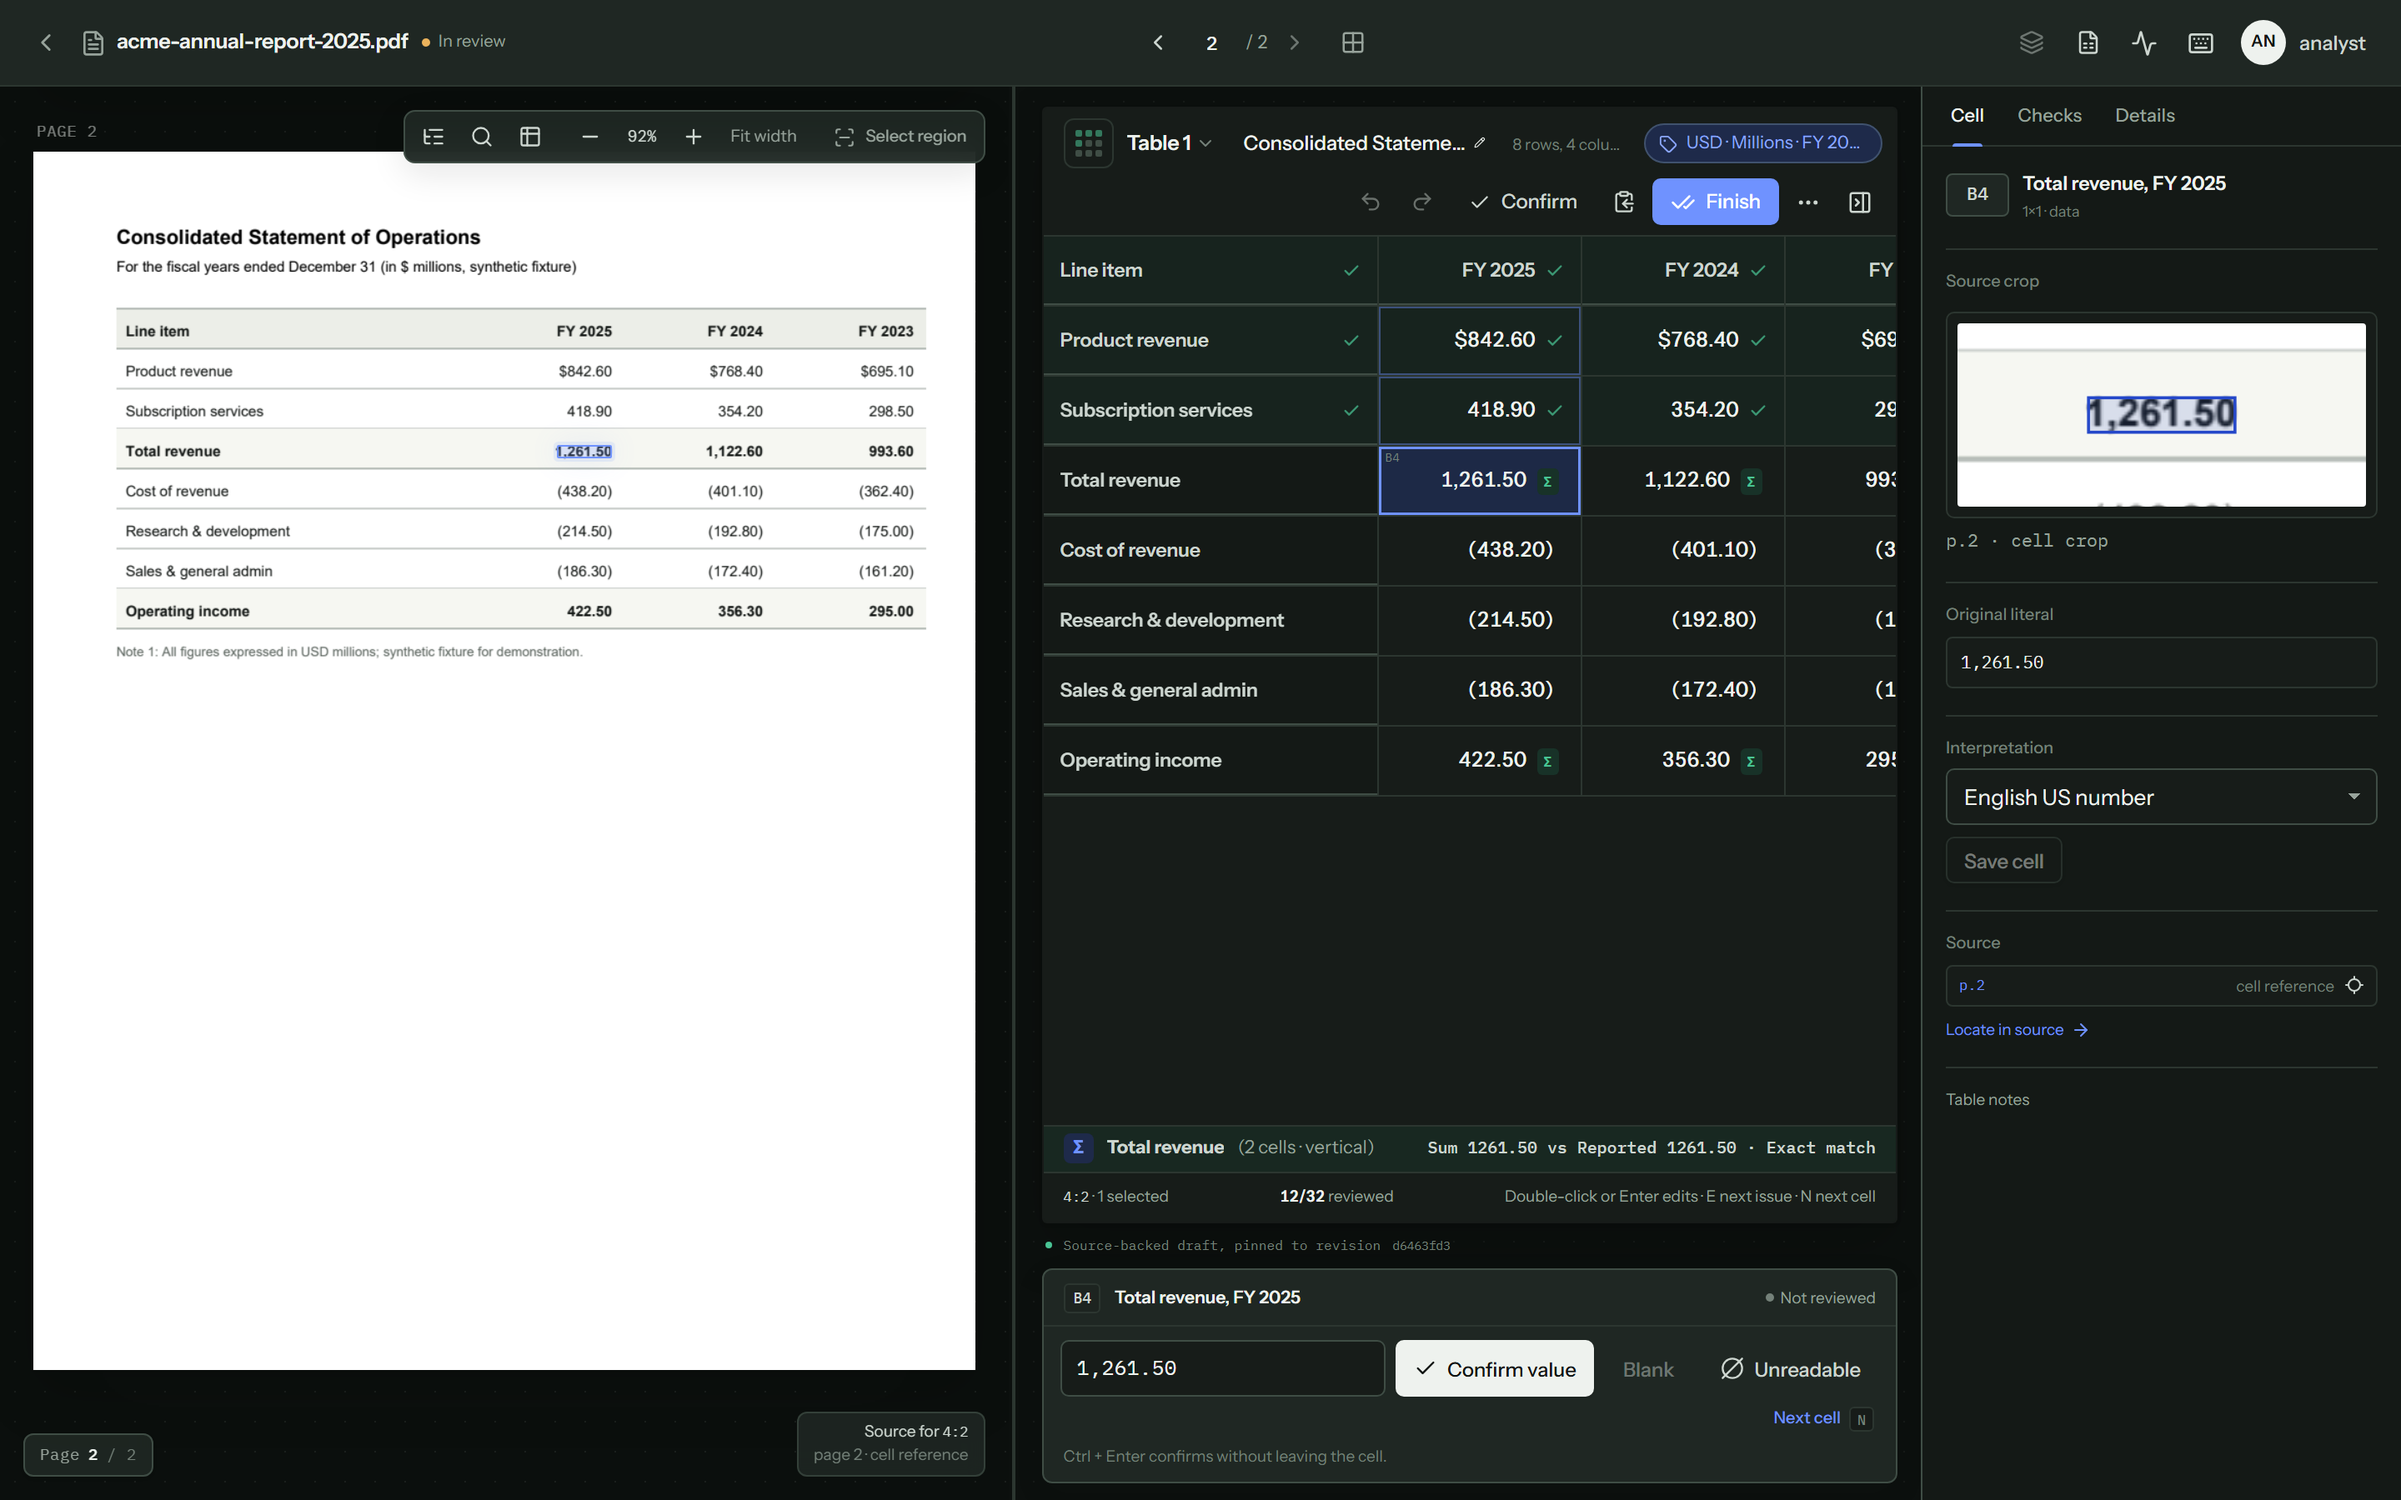
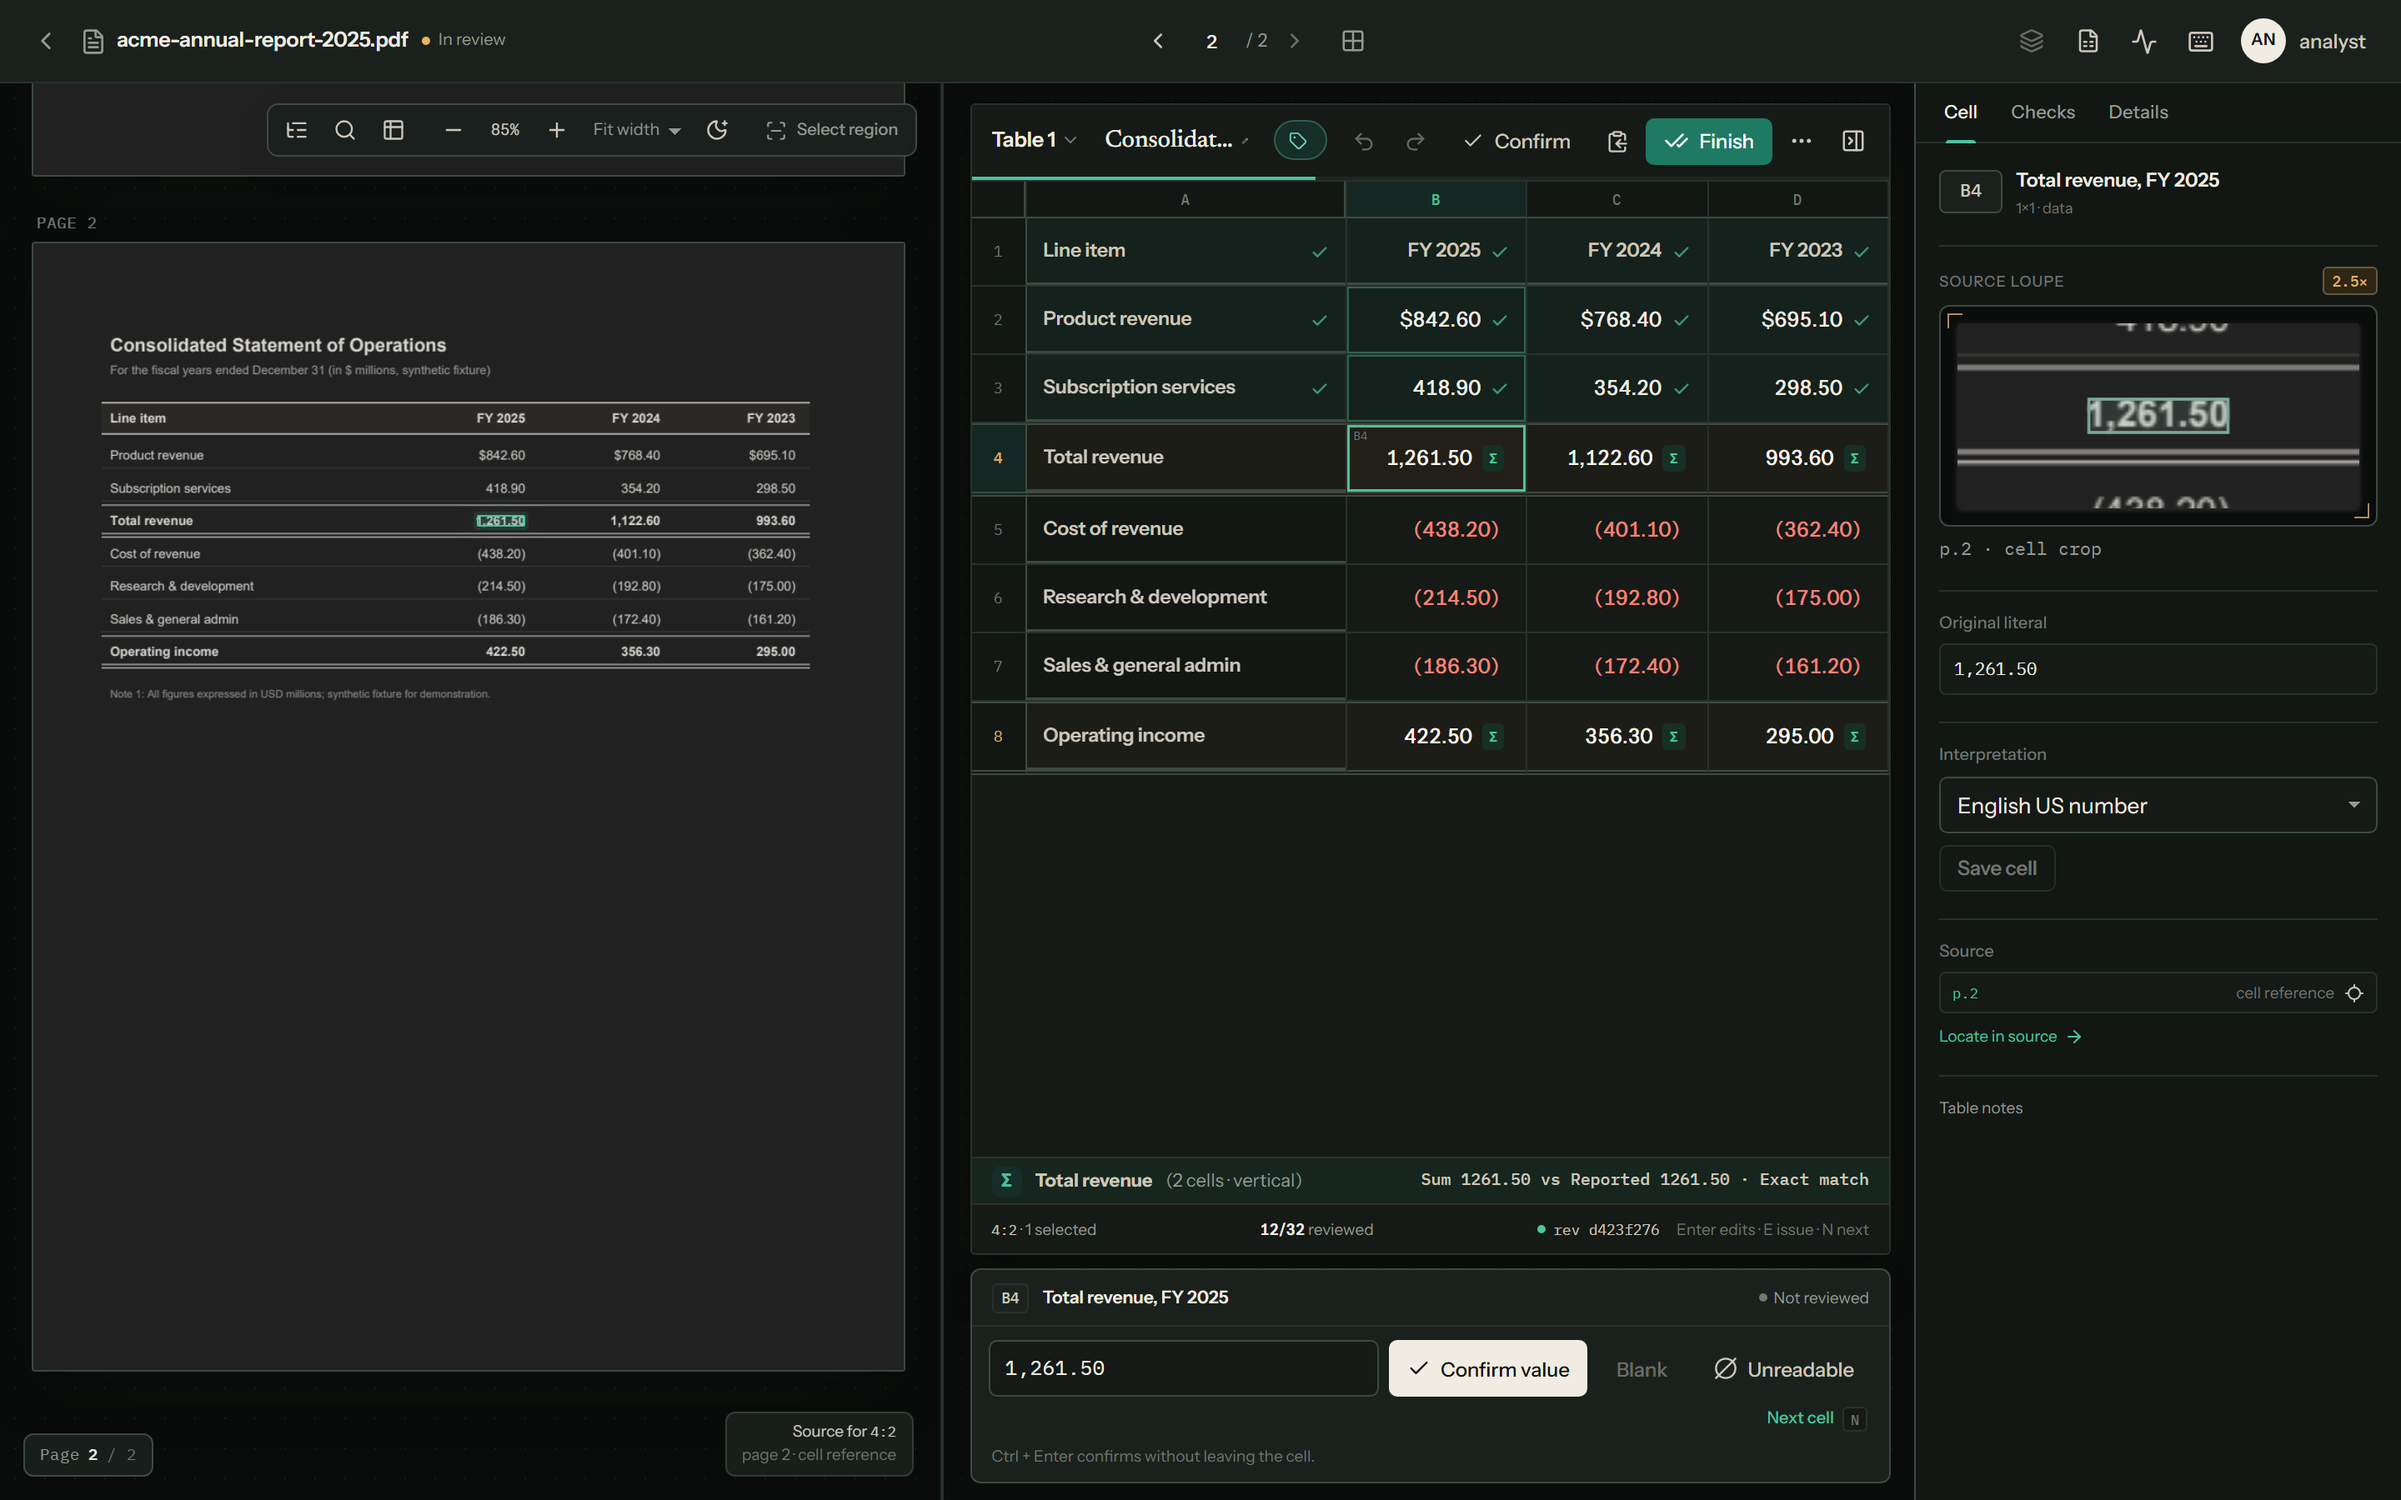
docs: refresh Editorial Archival Ledger screenshots, OpenAPI schema & toolbar polish

diff --git a/web/src/api/types.ts b/web/src/api/types.ts
@@ -332,6 +332,23 @@ export interface paths {
     patch?: never;
     trace?: never;
   };
+  "/api/v1/documents/{document_id}/thumbnail": {
+    parameters: {
+      query?: never;
+      header?: never;
+      path?: never;
+      cookie?: never;
+    };
+    /** Document Thumbnail */
+    get: operations["document_thumbnail_api_v1_documents__document_id__thumbnail_get"];
+    put?: never;
+    post?: never;
+    delete?: never;
+    options?: never;
+    head?: never;
+    patch?: never;
+    trace?: never;
+  };
   "/api/v1/exports/{export_id}": {
     parameters: {
       query?: never;
@@ -5127,6 +5144,118 @@ export interface operations {
         };
         content: {
           "application/json": components["schemas"]["TaskList"];
+        };
+      };
+      /** @description Bad Request */
+      400: {
+        headers: {
+          [name: string]: unknown;
+        };
+        content: {
+          "application/json": components["schemas"]["ErrorEnvelope"];
+        };
+      };
+      /** @description Unauthorized */
+      401: {
+        headers: {
+          [name: string]: unknown;
+        };
+        content: {
+          "application/json": components["schemas"]["ErrorEnvelope"];
+        };
+      };
+      /** @description Forbidden */
+      403: {
+        headers: {
+          [name: string]: unknown;
+        };
+        content: {
+          "application/json": components["schemas"]["ErrorEnvelope"];
+        };
+      };
+      /** @description Not Found */
+      404: {
+        headers: {
+          [name: string]: unknown;
+        };
+        content: {
+          "application/json": components["schemas"]["ErrorEnvelope"];
+        };
+      };
+      /** @description Conflict */
+      409: {
+        headers: {
+          [name: string]: unknown;
+        };
+        content: {
+          "application/json": components["schemas"]["ErrorEnvelope"];
+        };
+      };
+      /** @description Request Entity Too Large */
+      413: {
+        headers: {
+          [name: string]: unknown;
+        };
+        content: {
+          "application/json": components["schemas"]["ErrorEnvelope"];
+        };
+      };
+      /** @description Unprocessable Entity */
+      422: {
+        headers: {
+          [name: string]: unknown;
+        };
+        content: {
+          "application/json": components["schemas"]["ErrorEnvelope"];
+        };
+      };
+      /** @description Too Many Requests */
+      429: {
+        headers: {
+          [name: string]: unknown;
+        };
+        content: {
+          "application/json": components["schemas"]["ErrorEnvelope"];
+        };
+      };
+      /** @description Internal Server Error */
+      500: {
+        headers: {
+          [name: string]: unknown;
+        };
+        content: {
+          "application/json": components["schemas"]["ErrorEnvelope"];
+        };
+      };
+      /** @description Service Unavailable */
+      503: {
+        headers: {
+          [name: string]: unknown;
+        };
+        content: {
+          "application/json": components["schemas"]["ErrorEnvelope"];
+        };
+      };
+    };
+  };
+  document_thumbnail_api_v1_documents__document_id__thumbnail_get: {
+    parameters: {
+      query?: never;
+      header?: never;
+      path: {
+        document_id: string;
+      };
+      cookie?: never;
+    };
+    requestBody?: never;
+    responses: {
+      /** @description Successful Response */
+      200: {
+        headers: {
+          [name: string]: unknown;
+        };
+        content: {
+          "application/json": unknown;
         };
       };
       /** @description Bad Request */

diff --git a/web/src/styles/review.css b/web/src/styles/review.css
@@ -120,7 +120,8 @@
 .sheet-title-copy {
   display: flex;
   align-items: baseline;
-  gap: 9px;
+  gap: 7px;
+  flex: 1 1 auto;
   min-width: 0;
 }
 
@@ -162,11 +163,7 @@
 }
 
 .sheet-shape {
-  color: var(--faint);
-  font-size: 9.5px;
-  white-space: nowrap;
-  overflow: hidden;
-  text-overflow: ellipsis;
+  display: none;
 }
 
 .spacer {
@@ -200,7 +197,8 @@
   display: inline-flex;
   align-items: center;
   gap: 5px;
-  min-width: 0;
+  flex: 1 1 90px;
+  min-width: 72px;
   max-width: 240px;
   padding: 2px 6px;
   border: 1px solid transparent;
@@ -245,9 +243,9 @@
   display: inline-flex;
   align-items: center;
   gap: 5px;
-  flex: 0 1 auto;
+  flex: 0 2 auto;
   min-width: 0;
-  max-width: 170px;
+  max-width: 118px;
   height: 24px;
   padding: 0 8px;
   border: 1px solid var(--line);

diff --git a/README.md b/README.md
@@ -25,7 +25,7 @@ Table Review places a spreadsheet-grade review grid beside the original PDF page
   - `auto`: Routes digital pages through fast native extraction and falls back cleanly when ML/OCR is needed.
 - **Multi-page table stitching:** Combine continuation pages into a single unified table while stripping repeated headers and preserving each cell's original page number and PDF bounding box.
 - **Spreadsheet-grade review desk:**
-  - Drag-resizable split pane (`localStorage` persisted) with a collapsible Inspector Rail and a live 2× DPR **Source Cell Loupe** cropping the active PDF cell.
+  - Drag-resizable split pane (`localStorage` persisted) with a collapsible Inspector Rail, a calibrated 2× DPR **Optical Source Loupe**, and an optional **Night Paper** darkroom PDF filter.
   - Semantic sticky-header / sticky-row-label spreadsheet grid with range selection, IME-safe inline cell editing, and full revision **Undo / Redo** history (`Ctrl+Z` / `Ctrl+Shift+Z`).
   - Financial parsing for `$`, `€`, `£`, `₹`, `¥`, ISO currency codes, accounting negatives `(1,234.50)`, European (`1.234,56`) and Indian (`12,34,567.89`) number formats, and dash-zero (`-`).
   - Automatic vertical, grand-total, and horizontal cross-footing subtotal detection with inline badge verification (`Σ`, `Σ≈`, `Σ!`) alongside custom manual subtotals.
